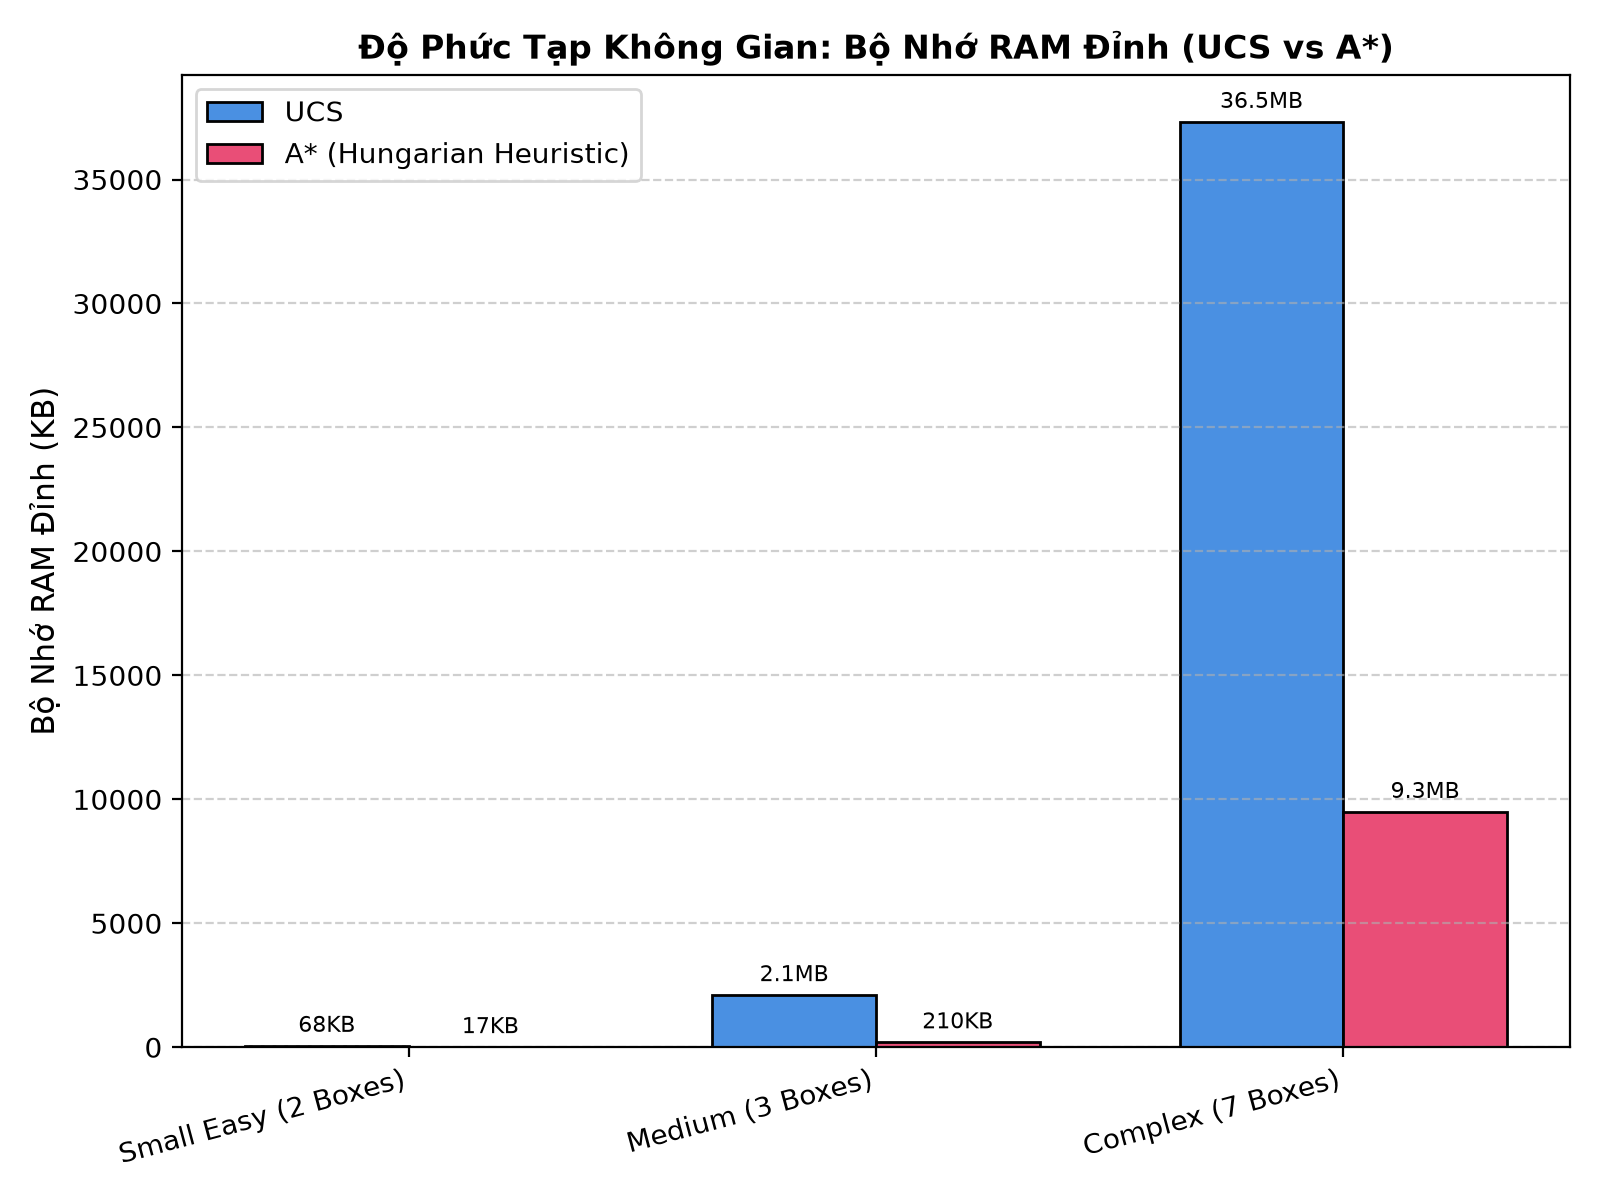
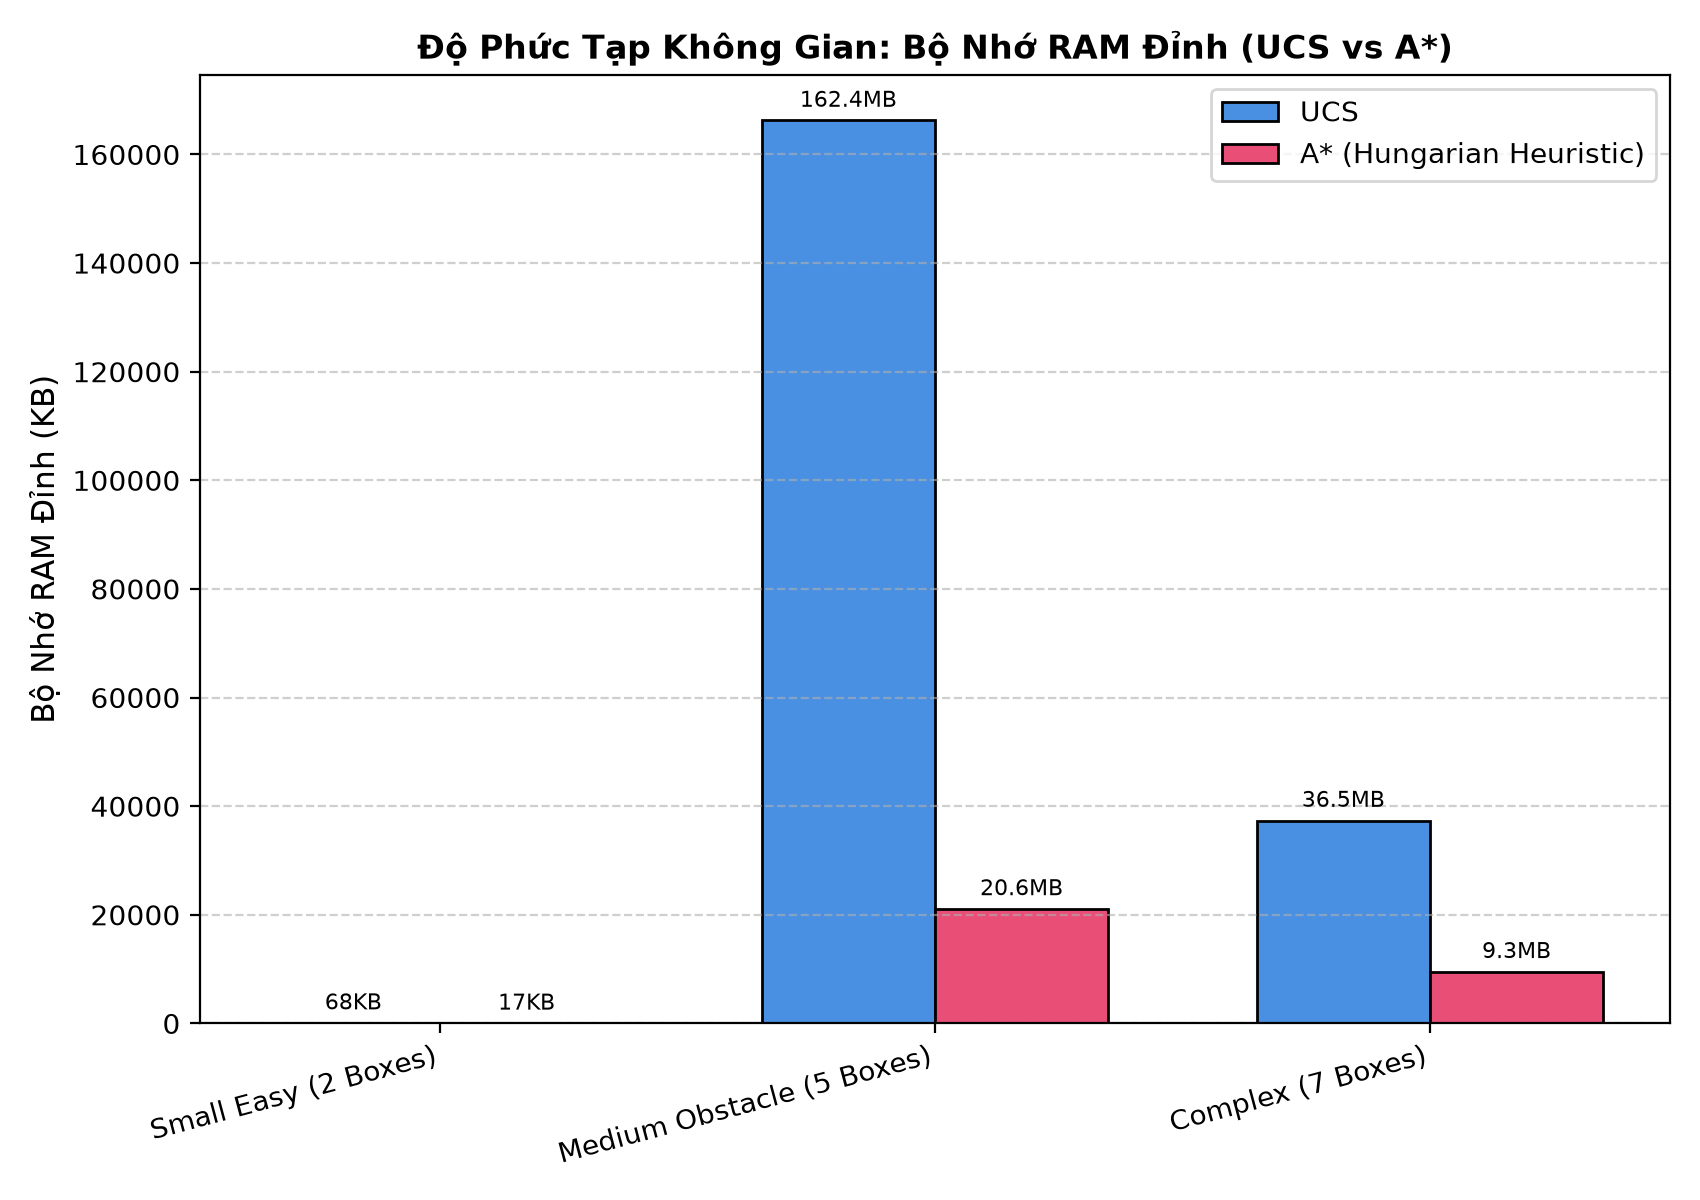
feat: design 5-box medium map with obstacles and regenerate task3 benchmark plots

diff --git a/task3/benchmark.py b/task3/benchmark.py
@@ -65,7 +65,7 @@ def run_single_experiment(map_path: str, algorithm: str, timeout: float = 30.0) 
 def run_full_benchmark():
     test_cases = [
         {"name": "Small Easy (2 Boxes)", "file": "maps/map_easy.txt", "boxes": 2},
-        {"name": "Medium (3 Boxes)", "file": "maps/map_medium.txt", "boxes": 3},
+        {"name": "Medium Obstacle (5 Boxes)", "file": "maps/map_medium.txt", "boxes": 5},
         {"name": "Complex (7 Boxes)", "file": "maps/example_map.txt", "boxes": 7},
     ]
 
@@ -80,8 +80,8 @@ def run_full_benchmark():
         map_file = tc["file"]
         print(f"\n[+] Đang đo lường trên: {map_name} ({map_file})...")
 
-        ucs_data = run_single_experiment(map_file, "ucs", timeout=20.0)
-        astar_data = run_single_experiment(map_file, "astar", timeout=20.0)
+        ucs_data = run_single_experiment(map_file, "ucs", timeout=25.0)
+        astar_data = run_single_experiment(map_file, "astar", timeout=25.0)
 
         node_reduction = 0.0
         if ucs_data["expanded"] > 0:
@@ -161,7 +161,7 @@ def generate_benchmark_plots(results: List[Dict[str, Any]]):
     width = 0.35
 
     # 1. Biểu đồ số lượng nút mở rộng (Nodes Expanded) - Thang Logarithmic
-    fig, ax = plt.subplots(figsize=(8, 6))
+    fig, ax = plt.subplots(figsize=(8.5, 6))
     rects1 = ax.bar(x - width/2, ucs_expanded, width, label='UCS', color='#4A90E2', edgecolor='black')
     rects2 = ax.bar(x + width/2, astar_expanded, width, label='A* (Hungarian Heuristic)', color='#E94E77', edgecolor='black')
     ax.set_yscale('log')
@@ -188,7 +188,7 @@ def generate_benchmark_plots(results: List[Dict[str, Any]]):
     print(f"\n[+] Đã lưu biểu đồ: {plot_path1}")
 
     # 2. Biểu đồ thời gian thực thi (Execution Time)
-    fig, ax = plt.subplots(figsize=(8, 6))
+    fig, ax = plt.subplots(figsize=(8.5, 6))
     rects1 = ax.bar(x - width/2, ucs_time, width, label='UCS', color='#4A90E2', edgecolor='black')
     rects2 = ax.bar(x + width/2, astar_time, width, label='A* (Hungarian Heuristic)', color='#E94E77', edgecolor='black')
     ax.set_ylabel('Thời Gian Thực Thi (Giây)', fontsize=11)
@@ -214,7 +214,7 @@ def generate_benchmark_plots(results: List[Dict[str, Any]]):
     print(f"[+] Đã lưu biểu đồ: {plot_path2}")
 
     # 3. Biểu đồ bộ nhớ RAM tiêu thụ (Peak RAM)
-    fig, ax = plt.subplots(figsize=(8, 6))
+    fig, ax = plt.subplots(figsize=(8.5, 6))
     rects1 = ax.bar(x - width/2, ucs_mem, width, label='UCS', color='#4A90E2', edgecolor='black')
     rects2 = ax.bar(x + width/2, astar_mem, width, label='A* (Hungarian Heuristic)', color='#E94E77', edgecolor='black')
     ax.set_ylabel('Bộ Nhớ RAM Đỉnh (KB)', fontsize=11)
